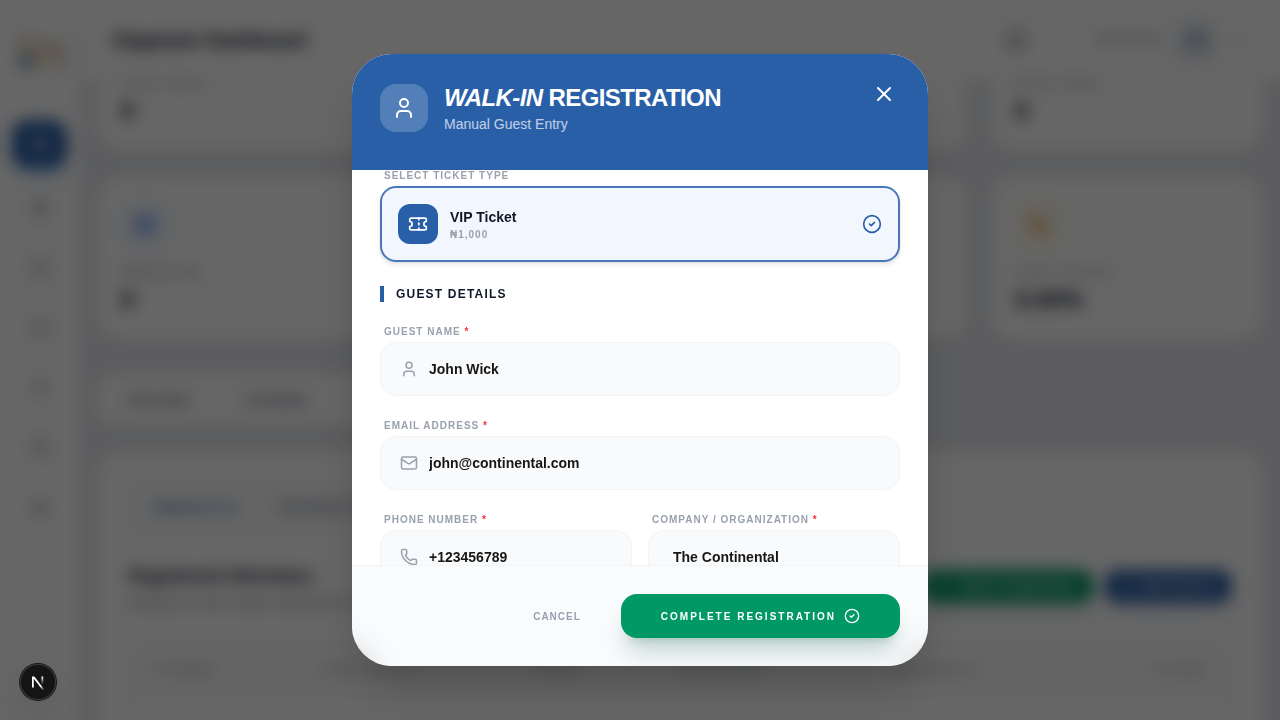
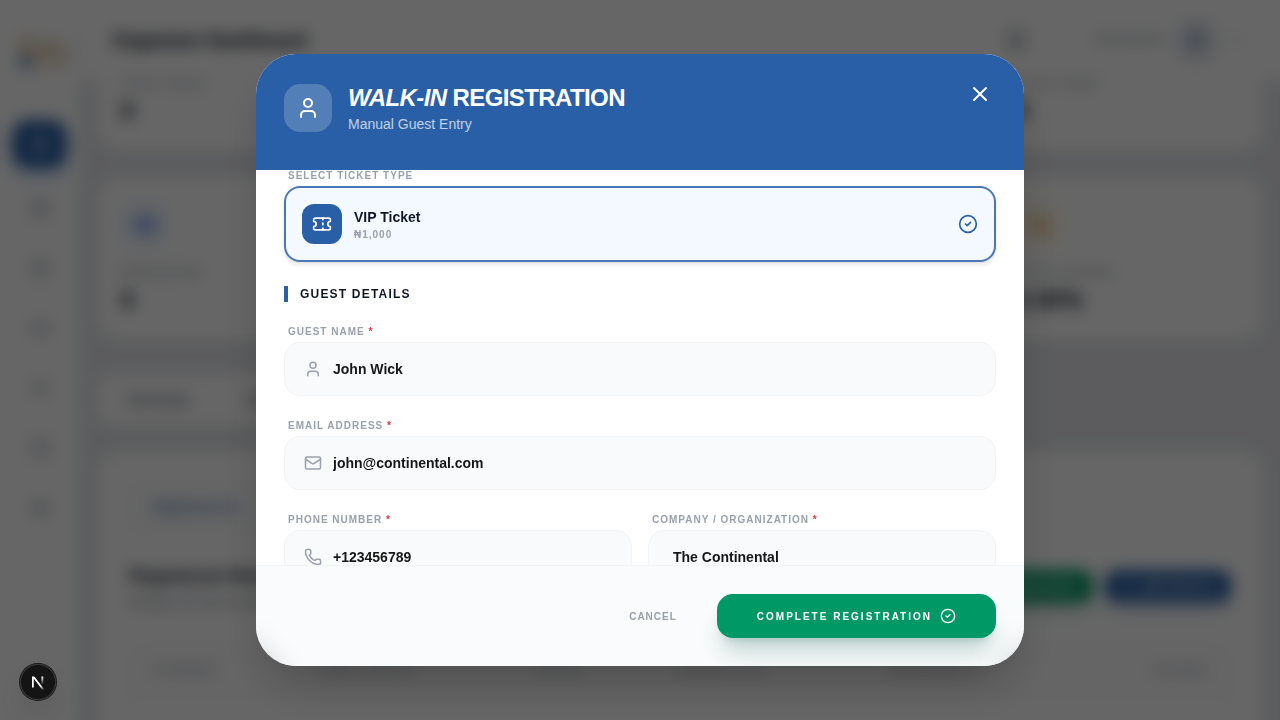
feat: support dynamic event registration fields inside organizer walk-in guest registration modal

diff --git a/src/components/organizer/WalkInRegistrationModal.tsx b/src/components/organizer/WalkInRegistrationModal.tsx
@@ -258,7 +258,7 @@ const WalkInRegistrationModal = ({
       <div
         role="dialog"
         aria-modal="true"
-        className="bg-white w-full max-w-xl rounded-[2rem] sm:rounded-[2.5rem] shadow-2xl overflow-hidden animate-in zoom-in-95 duration-300 flex flex-col max-h-[85vh]"
+        className="bg-white w-full max-w-3xl rounded-[2rem] sm:rounded-[2.5rem] shadow-2xl overflow-hidden animate-in zoom-in-95 duration-300 flex flex-col max-h-[85vh]"
         onClick={(e) => e.stopPropagation()}
       >
         {/* Header */}
